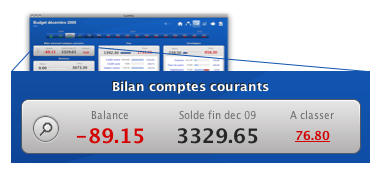
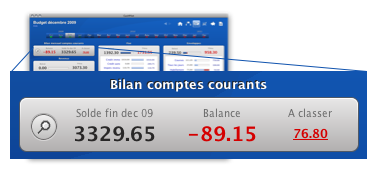
BudgetSummaryView : inversion de la balance et du solde de fin de mois

diff --git a/picsou/picsou/src/main/resources/help/fr/budgetWizard/5_prepareProjects.html b/picsou/picsou/src/main/resources/help/fr/budgetWizard/5_prepareProjects.html
@@ -1,7 +1,7 @@
 <html>
 <body>
 
-<p>Vous créez aussi des séries dans le poste budgétaire "<b>Extra</b>" pour représenter les dépenses
+<p>Vous créez aussi des séries dans le poste budgétaire "<b>Extras</b>" pour représenter les dépenses
   particulières qui vont marquer le budget de ce mois&nbsp;: achats importants, réparations, voyages, etc.</p>
 
 <p>C'est avec ces séries "Extra" que vous anticipez vos projets dans le futur&nbsp;:</p>
